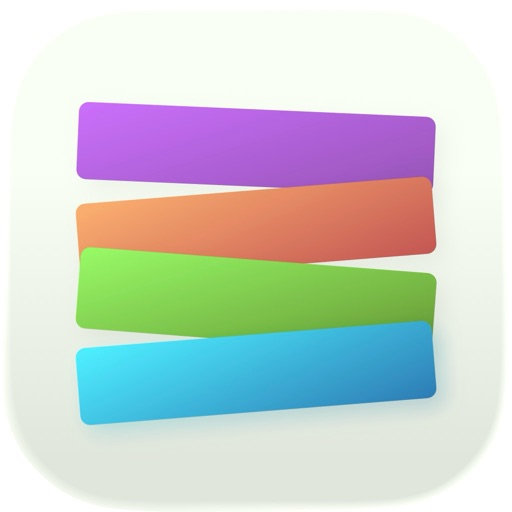
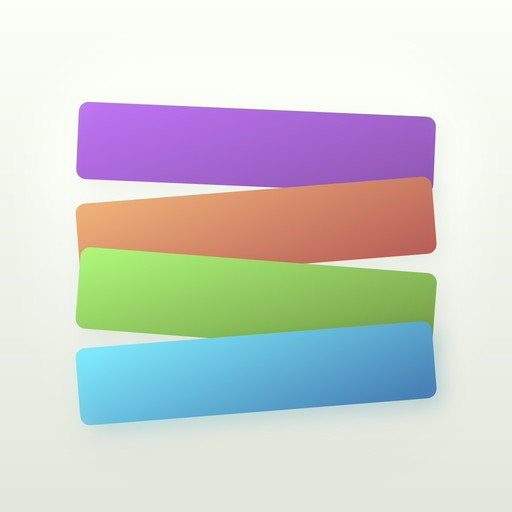
Update WhatPay privacy policy and product page for 1.3.4
Privacy policy: covers the price catalog and cancel guides served from
Supabase (only the chosen country is sent), on-device screenshot import,
people names in iCloud, local reminders and purchases; fixed "Last updated"
date instead of today's date; contact email; no promise of an in-app
"delete all".

Product page: new pricing (free setup, yearly with a 7-day trial or
lifetime), the block stack and cheaper plans, privacy bullets that match
the app, 1.3.4 screenshots and the updated icon.

diff --git a/iosapps/whatpay/index.html b/iosapps/whatpay/index.html
@@ -4,7 +4,7 @@
   <meta charset="utf-8">
   <meta name="viewport" content="width=device-width, initial-scale=1">
   <title>WhatPay: Bills, Subscriptions &amp; EMI Tracker for iPhone</title>
-  <meta name="description" content="Track subscriptions, EMIs, trials, and recurring bills in one clean iPhone dashboard. See monthly totals, get reminders, use widgets, and sync with iCloud.">
+  <meta name="description" content="Track subscriptions, bills, loans and free trials on iPhone. Every bill becomes a block sized by what it costs, with one total, reminders, cheaper plans and cancel guides. No bank login.">
   <meta name="theme-color" content="#080808">
   <link rel="canonical" href="https://thisisprabha.com/iosapps/whatpay/">
   <link rel="alternate" type="text/markdown" href="https://thisisprabha.com/iosapps/whatpay/index.md">
@@ -14,12 +14,12 @@
   <meta property="og:type" content="website">
   <meta property="og:url" content="https://thisisprabha.com/iosapps/whatpay/">
   <meta property="og:title" content="WhatPay: Know what you are paying">
-  <meta property="og:description" content="Subscriptions, EMIs, trials, and recurring bills. One running total, with reminders and widgets.">
-  <meta property="og:image" content="https://thisisprabha.com/iosapps/whatpay/assets/screenshot-1.jpg">
+  <meta property="og:description" content="Subscriptions, bills, loans and trials as blocks sized by cost. One total, reminders, cheaper plans. No bank login.">
+  <meta property="og:image" content="https://thisisprabha.com/iosapps/whatpay/assets/home-v134.jpg">
   <meta name="twitter:card" content="summary_large_image">
   <meta name="twitter:title" content="WhatPay: Know what you are paying">
-  <meta name="twitter:description" content="Track bills, subscriptions, EMIs, and renewals on iPhone.">
-  <meta name="twitter:image" content="https://thisisprabha.com/iosapps/whatpay/assets/screenshot-1.jpg">
+  <meta name="twitter:description" content="Bills you can see, touch and total. Subscriptions, loans and trials on iPhone.">
+  <meta name="twitter:image" content="https://thisisprabha.com/iosapps/whatpay/assets/home-v134.jpg">
   <script type="application/ld+json">
   {
     "@context":"https://schema.org",
@@ -27,11 +27,11 @@
     "name":"WhatPay: Bills & Subscriptions",
     "operatingSystem":"iOS 18.0 or later",
     "applicationCategory":"FinanceApplication",
-    "description":"An iPhone app for tracking subscriptions, EMIs, trials, and recurring bills with totals, reminders, widgets, and iCloud sync.",
+    "description":"An iPhone app for tracking subscriptions, bills, loans and free trials as blocks sized by cost, with one total, reminders, cheaper plans, cancel guides, widgets and iCloud sync.",
     "url":"https://thisisprabha.com/iosapps/whatpay/",
     "downloadUrl":"https://apps.apple.com/app/id6756521274",
     "image":"https://thisisprabha.com/iosapps/whatpay/assets/icon.jpg",
-    "softwareVersion":"1.3.3",
+    "softwareVersion":"1.3.4",
     "offers":{"@type":"Offer","price":"0","priceCurrency":"USD"},
     "author":{"@type":"Person","name":"Prabhakaran Ravichandran","url":"https://thisisprabha.com/"}
   }
@@ -59,22 +59,22 @@
           <div class="kicker">Bills &amp; subscriptions for iPhone</div>
           <div class="app-lockup"><img src="assets/icon.jpg" width="512" height="512" alt="WhatPay app icon"><span><strong>WhatPay</strong>Finance · Free with In-App Purchase</span></div>
           <h1>Know what you are <span class="lime">paying.</span></h1>
-          <p class="hero-sub">Subscriptions, EMIs, trials, and recurring bills in one running total. See what is due, set reminders, and stop letting renewals hide.</p>
+          <p class="hero-sub">Subscriptions, bills, loans and trials in one stack, each block sized by what it costs you. One total, a reminder before every payment, and no bank login.</p>
           <div class="actions"><a class="store" href="https://apps.apple.com/app/id6756521274" aria-label="Download WhatPay on the App Store"><svg viewBox="0 0 24 24" aria-hidden="true"><path fill="currentColor" d="M17.05 20.28c-.98.95-2.05.8-3.08.35-1.09-.46-2.09-.48-3.24 0-1.44.62-2.2.44-3.06-.35C2.79 15.25 3.51 7.59 9.05 7.31c1.35.07 2.29.74 3.08.79 1.18-.24 2.31-.93 3.57-.84 1.51.12 2.65.72 3.4 1.8-3.12 1.87-2.38 5.98.48 7.13-.57 1.5-1.31 2.99-2.53 4.09M12.03 7.25C11.88 5.02 13.69 3.18 15.77 3c.29 2.58-2.34 4.5-3.74 4.25"/></svg><span><small>Download on the</small><strong>App Store</strong></span></a><a class="text-link" href="#how">See how it works</a></div>
         </div>
-        <div class="hero-visual" aria-label="WhatPay running on iPhone"><div class="glow"></div><div class="phone"><img src="assets/screenshot-3.jpg" width="1242" height="2688" alt="WhatPay dashboard showing recurring bills and subscriptions"></div><span class="chip chip-one">One running total</span><span class="chip chip-two">Nothing hides</span></div>
+        <div class="hero-visual" aria-label="WhatPay running on iPhone"><div class="glow"></div><div class="phone"><img src="assets/home-v134.jpg" width="1206" height="2622" alt="WhatPay Home with the next bills, the monthly total and where the money goes"></div><span class="chip chip-one">Bigger block, bigger bill</span><span class="chip chip-two">No bank login</span></div>
       </section>
-      <div class="facts" aria-label="Product facts"><div class="fact"><strong>iPhone</strong><span>Designed for iOS 18+</span></div><div class="fact"><strong>6 free</strong><span>Track six payments before Pro</span></div><div class="fact"><strong>iCloud</strong><span>Sync across your devices</span></div><div class="fact"><strong>One-time Pro</strong><span>No recurring Pro subscription</span></div></div>
+      <div class="facts" aria-label="Product facts"><div class="fact"><strong>iPhone</strong><span>Designed for iOS 18+</span></div><div class="fact"><strong>Free setup</strong><span>Add every bill you pay, free</span></div><div class="fact"><strong>iCloud</strong><span>Sync across your devices</span></div><div class="fact"><strong>Pro</strong><span>Yearly with a 7-day trial, or once</span></div></div>
       <section id="how">
-        <div class="section-head"><div class="tag">The useful loop</div><h2>Add it. See it. Remember it.</h2><p>WhatPay turns scattered recurring payments into one clear view, without becoming another finance system you have to maintain.</p></div>
-        <div class="steps"><article class="step"><span class="num">01</span><h3>Capture the repeat.</h3><p>Add a subscription, EMI, trial, or bill. Set the amount, category, billing cycle, and next payment date.</p></article><article class="step"><span class="num">02</span><h3>See the real total.</h3><p>Check monthly, yearly, and yet-to-pay totals. Expand any card when you need the full breakdown.</p></article><article class="step"><span class="num">03</span><h3>Know what lands next.</h3><p>Use reminders, due-soon insights, and the Home Screen widget to catch payments before they arrive.</p></article></div>
+        <div class="section-head"><div class="tag">How it works</div><h2>Add it. See it. Pay less.</h2><p>WhatPay turns scattered recurring payments into one stack you can see at a glance, without becoming another finance system you have to maintain.</p></div>
+        <div class="steps"><article class="step"><span class="num">01</span><h3>Set up in a minute.</h3><p>Pick your country and tap the services you pay for; local plans and prices fill in. Or import a screenshot of your subscriptions, read on your iPhone.</p></article><article class="step"><span class="num">02</span><h3>See what&rsquo;s heavy.</h3><p>Every bill is a block sized by its monthly cost. Drag, throw and restack them. One total, per day, week, month or year.</p></article><article class="step"><span class="num">03</span><h3>Pay less.</h3><p>Reminders before every payment and trial. With Pro: cheaper plans for what you already pay, cancel guides and Home Screen widgets.</p></article></div>
       </section>
     </main>
   </div>
-  <section class="gallery-wrap" aria-labelledby="gallery-title"><div class="wrap"><div class="section-head"><div class="tag">Inside WhatPay</div><h2 id="gallery-title">Your recurring money, exposed.</h2><p>A direct view of the total, the details behind every card, and what is due next.</p></div><div class="gallery"><figure class="shot"><img src="assets/screenshot-1.jpg" width="1242" height="2688" loading="lazy" alt="WhatPay running total and subscription cards"></figure><figure class="shot"><img src="assets/screenshot-5.jpg" width="1242" height="2688" loading="lazy" alt="WhatPay due-soon insights"></figure><figure class="shot"><img src="assets/screenshot-6.jpg" width="1242" height="2688" loading="lazy" alt="WhatPay fast add payment form"></figure></div></div></section>
+  <section class="gallery-wrap" aria-labelledby="gallery-title"><div class="wrap"><div class="section-head"><div class="tag">Inside WhatPay</div><h2 id="gallery-title">Bills you can see, touch and total.</h2><p>The stack, the cheaper plan hiding in what you already pay, and what each bill really costs.</p></div><div class="gallery"><figure class="shot"><img src="assets/stack-v134.jpg" width="1206" height="2622" loading="lazy" alt="WhatPay bills as a stack of jelly blocks sized by cost"></figure><figure class="shot"><img src="assets/cheaper-plans-v134.jpg" width="1206" height="2622" loading="lazy" alt="WhatPay suggesting cheaper plans for services you already pay for"></figure><figure class="shot"><img src="assets/insights-v134.jpg" width="1206" height="2622" loading="lazy" alt="WhatPay Insights showing what each bill costs a day"></figure></div></div></section>
   <div class="wrap">
-    <section class="privacy" aria-label="Privacy and pricing"><article class="privacy-card"><div class="tag">Private by design</div><h2>Your bills stay yours.</h2><p>No WhatPay account. Your entries are stored on your device and synchronized through your personal iCloud account.</p><ul class="checks"><li>No third-party analytics or ad tracking</li><li>No developer-owned data server</li><li>No advertising data sharing</li></ul><p><a class="text-link" href="/whatpay-privacy-policy.html">Read the privacy policy</a></p></article><article class="price-card"><span class="price-pill">Simple pricing</span><h2>Start free. Unlock once.</h2><p>Track up to six subscriptions and bills for free. Upgrade to WhatPay Pro once when you need unlimited tracking.</p><div class="price-line">6 <small>payments included free</small></div><p>In-App Purchase pricing is shown in your local App Store.</p><p><a class="text-link" href="/whatpay-support.html">Support &amp; contact</a></p></article></section>
-    <section class="final"><div class="final-box"><h2>Stop paying blind.</h2><p>Put every recurring payment in one place and know what is coming.</p><a class="store" href="https://apps.apple.com/app/id6756521274"><svg viewBox="0 0 24 24" aria-hidden="true"><path fill="currentColor" d="M17.05 20.28c-.98.95-2.05.8-3.08.35-1.09-.46-2.09-.48-3.24 0-1.44.62-2.2.44-3.06-.35C2.79 15.25 3.51 7.59 9.05 7.31c1.35.07 2.29.74 3.08.79 1.18-.24 2.31-.93 3.57-.84 1.51.12 2.65.72 3.4 1.8-3.12 1.87-2.38 5.98.48 7.13-.57 1.5-1.31 2.99-2.53 4.09M12.03 7.25C11.88 5.02 13.69 3.18 15.77 3c.29 2.58-2.34 4.5-3.74 4.25"/></svg><span><small>Download on the</small><strong>App Store</strong></span></a></div></section>
+    <section class="privacy" aria-label="Privacy and pricing"><article class="privacy-card"><div class="tag">Private by design</div><h2>Your bills stay yours.</h2><p>No WhatPay account and no bank login. Your bills stay on your iPhone and in your own private iCloud.</p><ul class="checks"><li>No analytics, ads or tracking</li><li>Screenshots are read on your iPhone, never uploaded</li><li>Only your country is sent, to load local prices</li></ul><p><a class="text-link" href="/whatpay-privacy-policy.html">Read the privacy policy</a></p></article><article class="price-card"><span class="price-pill">Simple pricing</span><h2>Start free. Go Pro when it pays.</h2><p>Add every bill you pay during setup, free. The stack, totals, calendar, reminders and people stay free. WhatPay Pro adds bills after setup, insights, cheaper plans, cancel guides and widgets.</p><div class="price-line">7 days <small>free on yearly</small></div><p>Then it renews yearly. Or buy Pro once. Prices are shown in your local App Store.</p><p><a class="text-link" href="/whatpay-support.html">Support &amp; contact</a></p></article></section>
+    <section class="final"><div class="final-box"><h2>Stop paying blind.</h2><p>Put every bill, loan and renewal in one stack and know what is coming.</p><a class="store" href="https://apps.apple.com/app/id6756521274"><svg viewBox="0 0 24 24" aria-hidden="true"><path fill="currentColor" d="M17.05 20.28c-.98.95-2.05.8-3.08.35-1.09-.46-2.09-.48-3.24 0-1.44.62-2.2.44-3.06-.35C2.79 15.25 3.51 7.59 9.05 7.31c1.35.07 2.29.74 3.08.79 1.18-.24 2.31-.93 3.57-.84 1.51.12 2.65.72 3.4 1.8-3.12 1.87-2.38 5.98.48 7.13-.57 1.5-1.31 2.99-2.53 4.09M12.03 7.25C11.88 5.02 13.69 3.18 15.77 3c.29 2.58-2.34 4.5-3.74 4.25"/></svg><span><small>Download on the</small><strong>App Store</strong></span></a></div></section>
     <footer class="footer"><span>© 2026 Prabhakaran Ravichandran</span><span><a href="../">All iOS apps</a> · <a href="/whatpay-support.html">Support</a> · <a href="/whatpay-privacy-policy.html">Privacy</a></span></footer>
   </div>
 </body>

diff --git a/whatpay-privacy-policy.html b/whatpay-privacy-policy.html
@@ -3,7 +3,7 @@
 <head>
     <meta charset="UTF-8">
     <meta name="viewport" content="width=device-width, initial-scale=1.0">
-    <title>Privacy Policy - Whatpay</title>
+    <title>Privacy Policy - WhatPay</title>
     <style>
         body {
             font-family: -apple-system, BlinkMacSystemFont, 'Segoe UI', Roboto, Oxygen, Ubuntu, Cantarell, sans-serif;
@@ -32,6 +32,14 @@
         p {
             margin-bottom: 15px;
         }
+        ul { padding-left: 20px; }
+        li { margin-bottom: 8px; }
+        .summary {
+            background: #f2f8f3;
+            border-left: 4px solid #1f8a4c;
+            padding: 14px 18px;
+            margin-bottom: 24px;
+        }
         .last-updated {
             color: #666;
             font-style: italic;
@@ -42,82 +50,64 @@
 <body>
     <div class="container">
         <h1>Privacy Policy</h1>
-        <p class="last-updated">Last Updated: <span id="date"></span></p>
-        
-        <h2>Introduction</h2>
-        <p>
-            Whatpay ("we", "our", or "us") is committed to protecting your privacy. This Privacy Policy explains how we handle your data when you use our mobile application.
-        </p>
-        
-        <h2>Information We Collect</h2>
-        <p>
-            Whatpay is designed with privacy in mind. We collect and store the following information locally on your device:
-        </p>
+        <p class="last-updated">Last updated: 7 November 2026 (WhatPay 1.3.4)</p>
+
+        <div class="summary">
+            <p><strong>In short:</strong> WhatPay has no account, no ads and no analytics. Your bills stay on your iPhone and in your own private iCloud. The only thing the app sends to WhatPay's server is the country you pick, so it can show local plans, prices and cancel guides.</p>
+        </div>
+
+        <h2>Who we are</h2>
+        <p>WhatPay ("WhatPay", "we", "us") is an iPhone app made by Prabhakaran Ravichandran. This policy explains what the app does with your information.</p>
+
+        <h2>What you put into WhatPay</h2>
         <ul>
-            <li><strong>Subscription and Payment Data:</strong> Information about your subscriptions, EMIs, free trials, payment amounts, billing cycles, and payment dates that you manually enter into the app.</li>
-            <li><strong>User Name:</strong> The name you choose to display in the app (defaults to "My" if not set).</li>
-            <li><strong>No Account Information:</strong> Whatpay does not require account creation or login.</li>
+            <li><strong>Bills:</strong> subscriptions, bills, loans and free trials you add, with their names, amounts, currency, billing cycle, payment dates, category, colour and reminder settings, and whether you marked them cancelled or paid off.</li>
+            <li><strong>People:</strong> the names you give to people you track bills for, such as a partner or a parent.</li>
+            <li><strong>Settings:</strong> your country, currency and app preferences.</li>
         </ul>
-        
-        <h2>Data Storage</h2>
-        <p>
-            Data you enter in Whatpay is stored locally on your device using Apple's UserDefaults and App Groups and is synchronized with your personal iCloud account through Apple's CloudKit by default. This data is:
-        </p>
+        <p>WhatPay doesn't ask for your name, email, phone number, bank login or card details.</p>
+
+        <h2>Where it's stored</h2>
         <ul>
-            <li>Stored on your device and in your personal iCloud account</li>
-            <li>Not stored on our own servers</li>
-            <li>Never shared with third parties</li>
-            <li>Accessible only to you and the app's widget extension</li>
+            <li><strong>On your iPhone</strong>, inside the app and its Home Screen widget (shared on the device through an App Group).</li>
+            <li><strong>In your private iCloud</strong>, through Apple's CloudKit and iCloud key-value storage, so your devices stay in sync. This is your own iCloud storage. We can't read it.</li>
         </ul>
-        
-        <h2>Data Sharing</h2>
-        <p>
-            We do not collect, transmit, or share your data with any third parties for advertising purposes. Your data is stored on your device and synchronized with your personal iCloud account through CloudKit. Limited sharing required for core functionality is listed below:
-        </p>
+        <p>WhatPay doesn't store your bills on any server of ours.</p>
+
+        <h2>Importing from screenshots and files</h2>
+        <p>If you import bills from screenshots, you choose the images with Apple's photo picker. WhatPay only sees the images you pick and doesn't get access to the rest of your photos. Text is read on your iPhone with Apple's Vision framework. Images are not uploaded and not kept after the import. CSV and text files you import are also read only on your iPhone.</p>
+
+        <h2>Plans, prices and cancel guides</h2>
+        <p>To suggest plans, show reference prices, find cheaper plans and show how to cancel a service, WhatPay downloads public reference data from its catalog server, hosted by <a href="https://supabase.com/privacy">Supabase</a>. Each request contains only the country you chose (for example, US). No bills, amounts, names, device identifiers or Apple Account details are sent. As with any internet request, the server can see your IP address in short-lived technical logs. We don't use it to identify you. A copy of the cancel guides is kept on your iPhone so they work offline.</p>
+
+        <h2>Reminders</h2>
+        <p>Payment and trial reminders are local notifications scheduled on your iPhone. Nothing is sent to a push server.</p>
+
+        <h2>Purchases</h2>
+        <p>WhatPay Pro is sold through the App Store. Apple processes the payment, and we never receive your payment details. The app asks Apple whether your Apple Account owns WhatPay Pro so it can unlock Pro features.</p>
+
+        <h2>Third parties</h2>
         <ul>
-            <li><strong>Widget Extension:</strong> Your subscription data is shared with the Whatpay widget extension through Apple's App Groups feature, allowing the widget to display your information. This sharing occurs entirely on your device.</li>
-            <li><strong>iCloud Sync:</strong> Your app data is synchronized with your personal iCloud account through Apple's CloudKit by default.</li>
-            <li><strong>In-App Purchases:</strong> Purchases are processed by Apple through the App Store and StoreKit. We do not receive your full payment card details.</li>
-        </ul>        
-        <h2>Third-Party Services</h2>
-        <p>
-            Whatpay uses Apple services for iCloud sync (CloudKit) and in-app purchases (App Store/StoreKit). We do not use third-party analytics, advertising SDKs, or ad tracking.
-        </p>
-        
-        <h2>Data Deletion</h2>
-        <p>
-            You can delete individual subscriptions or all data at any time through the app. When you delete the app from your device, local data is removed. Synced iCloud data can also be managed in your Apple ID iCloud settings.
-        </p>
-        
-        <h2>Children's Privacy</h2>
-        <p>
-            Whatpay is not intended for children under the age of 13. We do not knowingly collect personal information from children.
-        </p>
-        
-        <h2>Changes to This Privacy Policy</h2>
-        <p>
-            We may update this Privacy Policy from time to time. We will notify you of any changes by updating the "Last Updated" date at the top of this policy. You are advised to review this Privacy Policy periodically for any changes.
-        </p>
-        
-        <h2>Contact Us</h2>
-        <p>
-            If you have any questions about this Privacy Policy, please contact us through the app's support channels or your preferred method of communication.
-        </p>
-        
-        <h2>Your Consent</h2>
-        <p>
-            By using Whatpay, you consent to this Privacy Policy and agree to its terms.
-        </p>
+            <li><strong>Apple</strong>, for iCloud sync, in-app purchases and on-device text recognition.</li>
+            <li><strong>Supabase</strong>, which hosts the public price catalog and cancel guides.</li>
+        </ul>
+        <p>WhatPay has no analytics, advertising or tracking SDKs. We don't sell or share your information, and we don't track you across apps or websites.</p>
+
+        <h2>Deleting your data</h2>
+        <ul>
+            <li>Delete any bill or person in the app at any time.</li>
+            <li>Deleting the app removes the data stored on your iPhone.</li>
+            <li>To remove the iCloud copy, open Settings on your iPhone, tap your name, then iCloud, and manage WhatPay's data under your iCloud storage. You can also turn off iCloud for WhatPay there.</li>
+        </ul>
+
+        <h2>Children</h2>
+        <p>WhatPay isn't directed at children under 13, and we don't knowingly collect information from them.</p>
+
+        <h2>Changes to this policy</h2>
+        <p>If WhatPay changes how it handles information, we'll update this page and the date at the top. If a translated version of this policy differs from this English version, this version applies.</p>
+
+        <h2>Contact</h2>
+        <p>Questions about privacy: <a href="mailto:uxcurry@gmail.com">uxcurry@gmail.com</a>, or see <a href="https://thisisprabha.com/whatpay-support.html">WhatPay support</a>.</p>
     </div>
-    
-    <script>
-        // Set current date
-        document.getElementById('date').textContent = new Date().toLocaleDateString('en-US', { 
-            year: 'numeric', 
-            month: 'long', 
-            day: 'numeric' 
-        });
-    </script>
 </body>
 </html>
-

diff --git a/iosapps/whatpay/index.md b/iosapps/whatpay/index.md
@@ -1,28 +1,29 @@
 # WhatPay: Bills & Subscriptions
 
-> Track subscriptions, EMIs, trials, and recurring bills in one clean iPhone dashboard.
+> Track subscriptions, bills, loans and free trials on iPhone, as blocks sized by what they cost.
 
 ## Product
 
 - **Platform:** iPhone
 - **Requires:** iOS 18.0 or later
 - **Category:** Finance
-- **Current public version:** 1.3.3
-- **Price:** Free for up to six tracked payments, with a one-time WhatPay Pro In-App Purchase for unlimited tracking
+- **Current version:** 1.3.4
+- **Price:** Free to set up with every bill you pay. WhatPay Pro is a yearly subscription with a 7-day free trial, or a one-time lifetime purchase.
 - **App Store:** [Download WhatPay](https://apps.apple.com/app/id6756521274)
 
 ## What WhatPay does
 
-- Tracks subscriptions, EMIs, free trials, and recurring bills
-- Shows monthly, yearly, and yet-to-pay totals
-- Organizes payments by category
-- Shows detailed payment breakdowns and due-soon insights
-- Supports payment reminders and a Home Screen widget
-- Synchronizes entries through the user's personal iCloud account
+- Shows every subscription, bill and loan as a jelly block sized by its monthly cost
+- Sets up from a catalog of local plans and prices, or imports from a screenshot read on the device
+- One total per day, week, month or year, next bills first, and a calendar
+- Loans and EMIs with payments left; free trials with a reminder the day before they end
+- Keeps bills for a partner or parent apart
+- Reminders before each payment, and iCloud sync across devices
+- WhatPay Pro: adding bills after setup, insights, cheaper plan suggestions, cancel guides and Home Screen widgets
 
 ## Privacy
 
-WhatPay does not require an account. Payment entries are stored on the user's device and synchronized through the user's personal iCloud account. The app does not use third-party analytics, advertising SDKs, or ad tracking.
+WhatPay needs no account and no bank login. Bills stay on the device and in the user's private iCloud. Screenshots are read on the device and never uploaded. To load local plans, prices and cancel guides, the app sends only the chosen country to its catalog server (hosted by Supabase). No analytics, advertising SDKs or tracking.
 
 - [Privacy policy](https://thisisprabha.com/whatpay-privacy-policy.html)
 - [Support](https://thisisprabha.com/whatpay-support.html)
